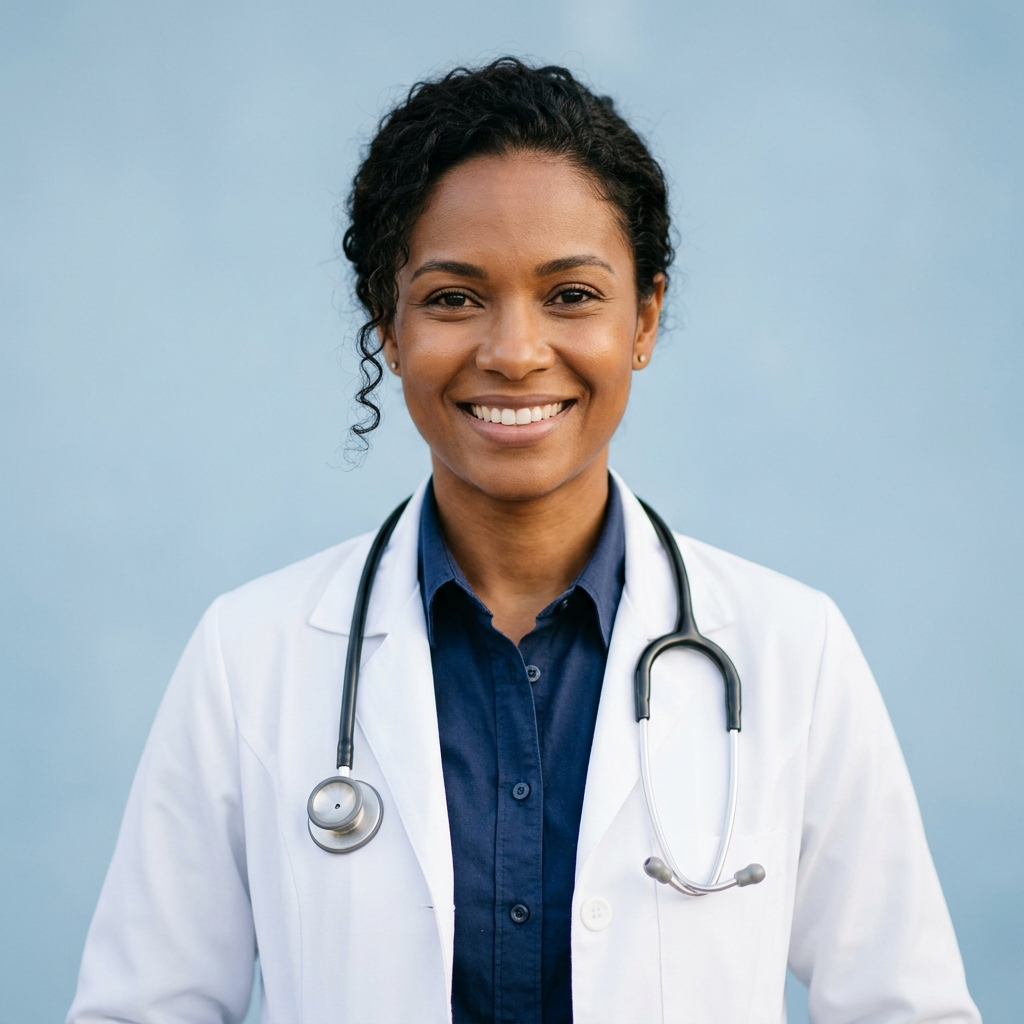
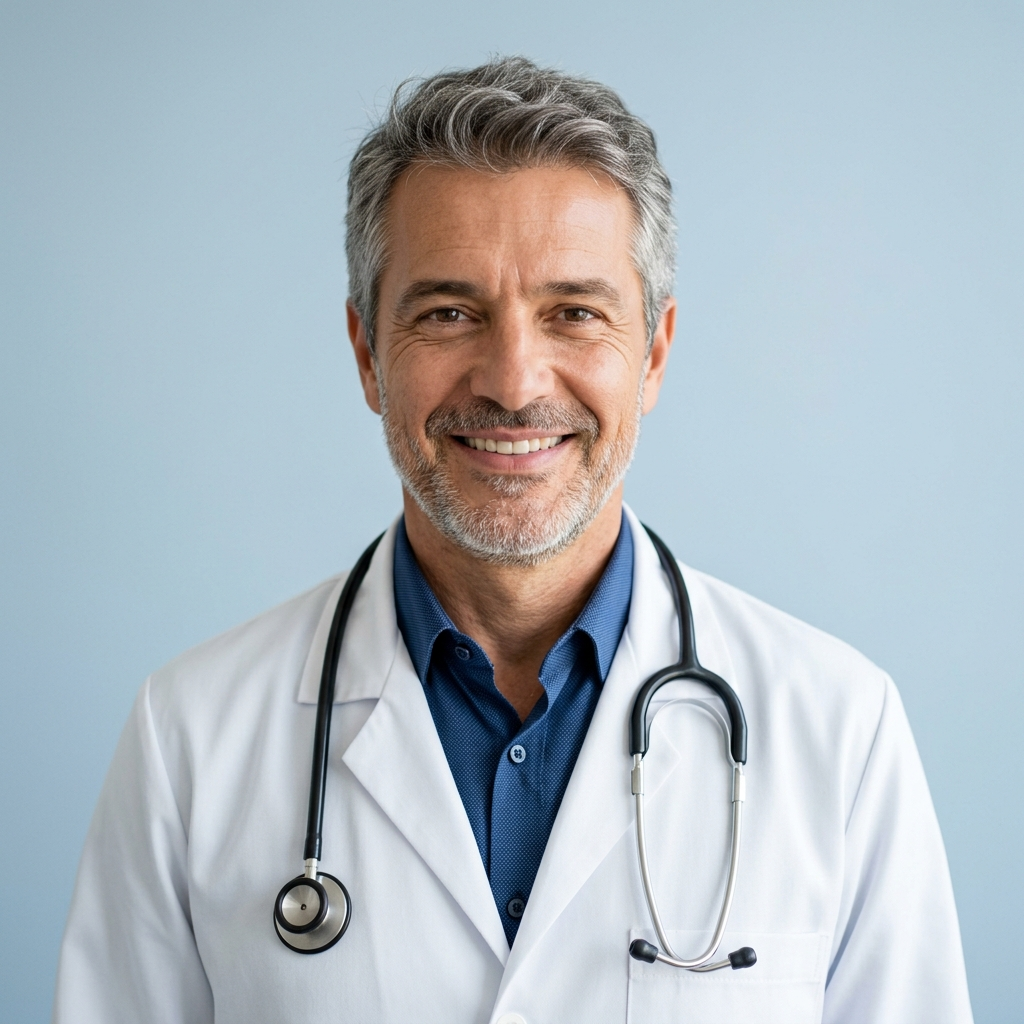
Diversify team photos: white male physician, Black male nurse
Regenerated the physician and nurse portraits with different gender and
ethnicity to break the all-female pattern of the previous set. The physical
therapist stays a mixed-race (parda) woman. The psychologist photo could not
be regenerated to a male East Asian-Brazilian portrait yet, the agy image
generation quota was exhausted mid-batch (resets in ~4.5h); it still shows
the previous Black female portrait, which keeps some ethnic variety in the
meantime and can be swapped once quota resets.

diff --git a/index.html b/index.html
@@ -643,7 +643,7 @@
         <h4>Médicos Especialistas</h4><span>Diversas especialidades</span>
       </div>
       <div class="team-card reveal-item" style="--i:1">
-        <div class="avatar"><img src="images/team-enfermagem.jpg" alt="Retrato de uma enfermeira da equipe" loading="lazy" decoding="async"></div>
+        <div class="avatar"><img src="images/team-enfermagem.jpg" alt="Retrato de um enfermeiro da equipe" loading="lazy" decoding="async"></div>
         <h4>Enfermagem</h4><span>Enfermeiros e técnicos</span>
       </div>
       <div class="team-card reveal-item" style="--i:2">